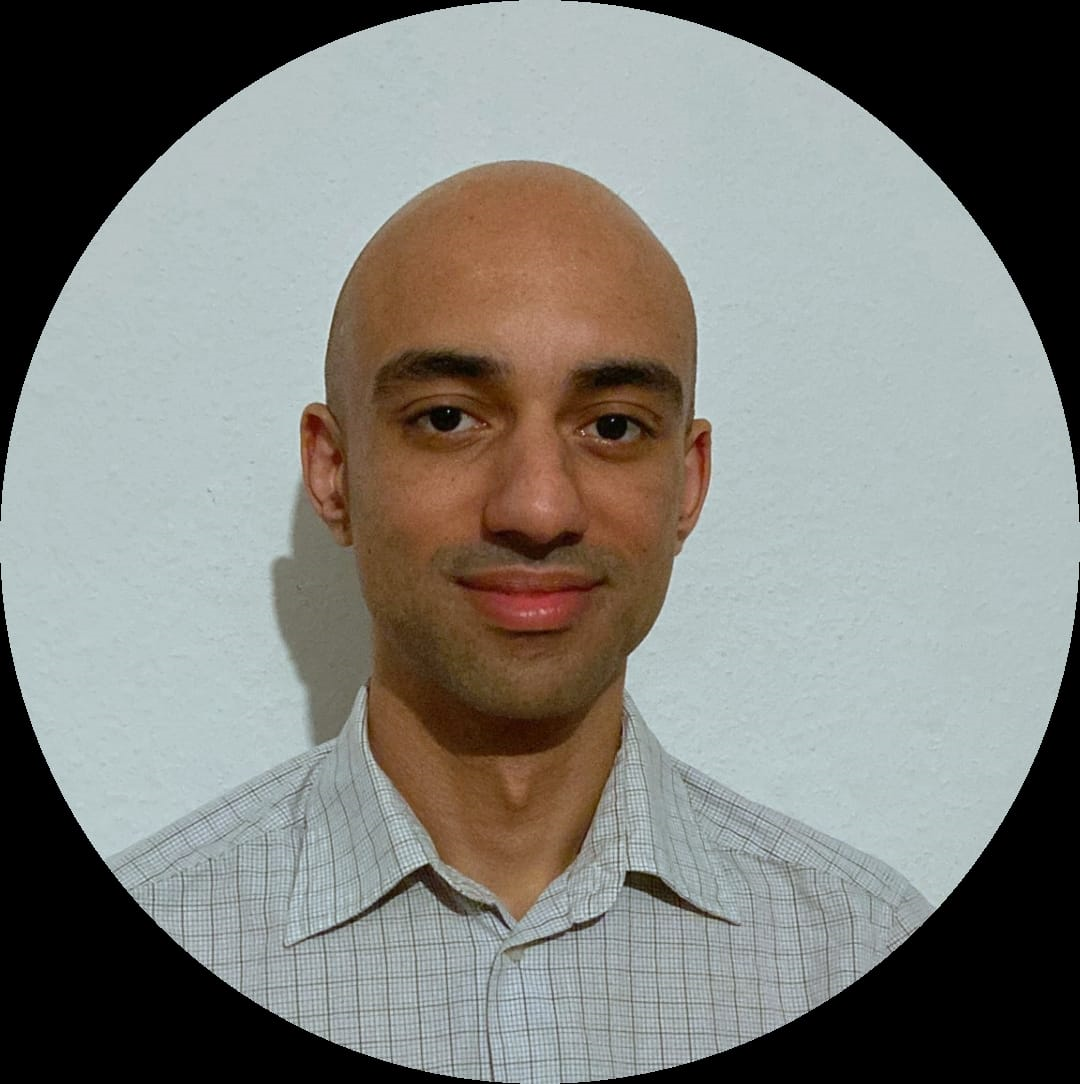
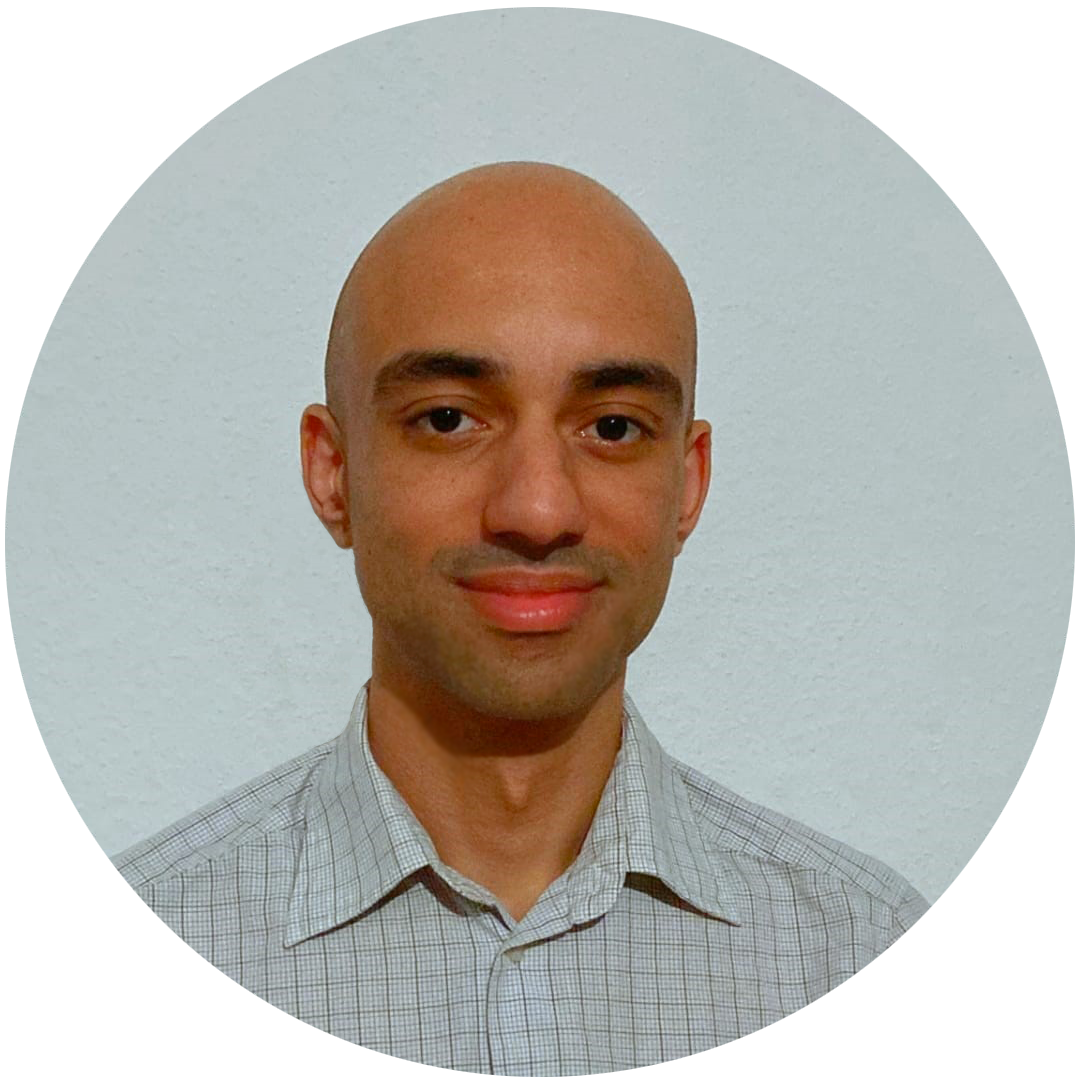
Update photo

diff --git a/index.html b/index.html
@@ -43,7 +43,7 @@
       </header>
   <main>
     <div class="profile">
-    <img src="img/shaynewenzel.jpeg" class="profile__portrait" alt="Shayne Wenzel Portrait">
+    <img src="img/shaynewenzel.png" class="profile__portrait" alt="Shayne Wenzel Portrait">
   <h1>Shayne Wenzel</h1>
   <p>
     UX • Wed Dev • Art • Ed
